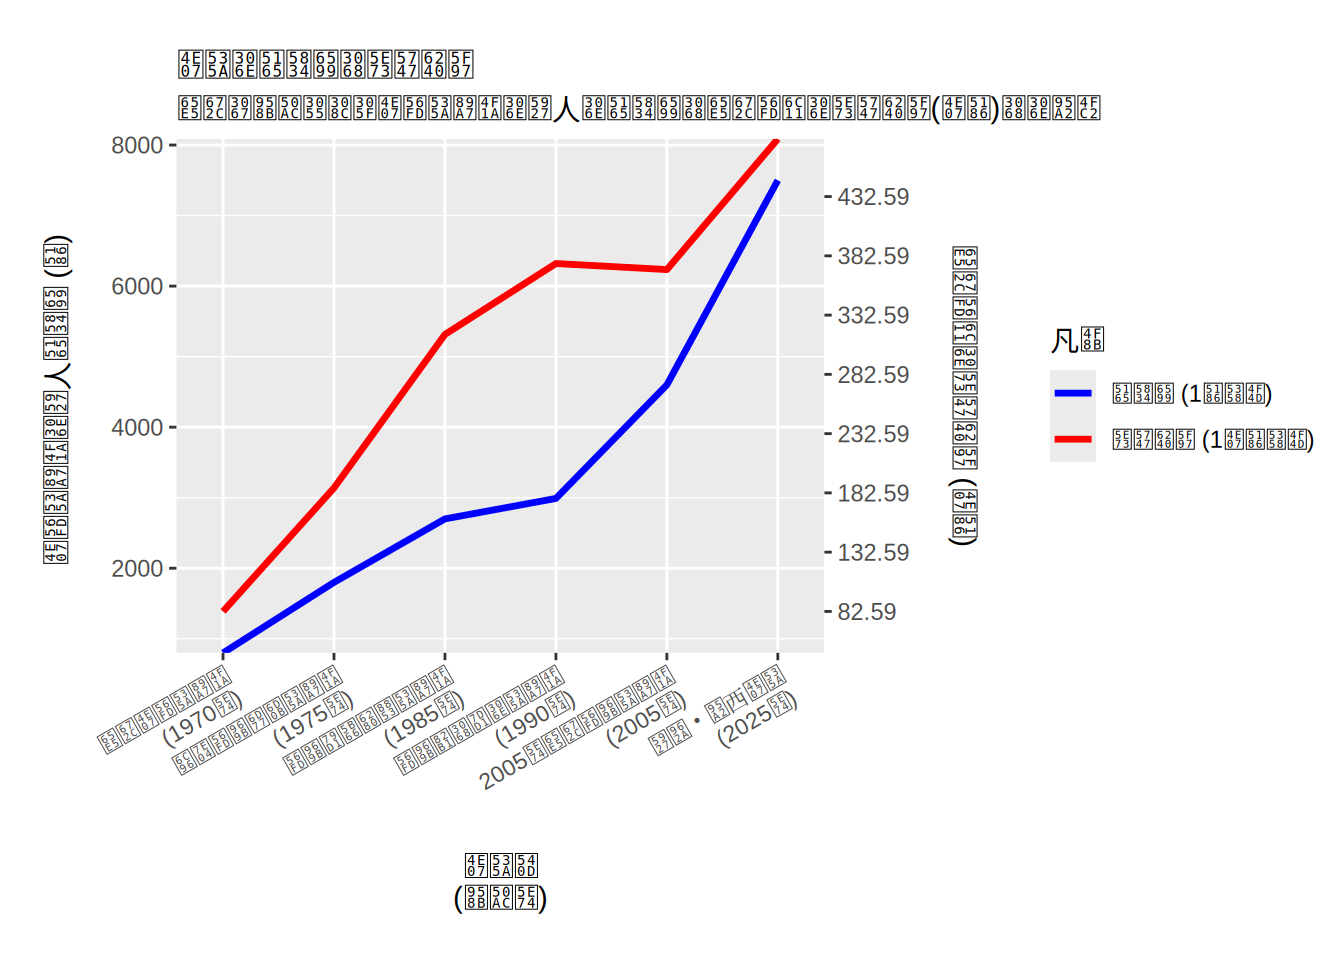
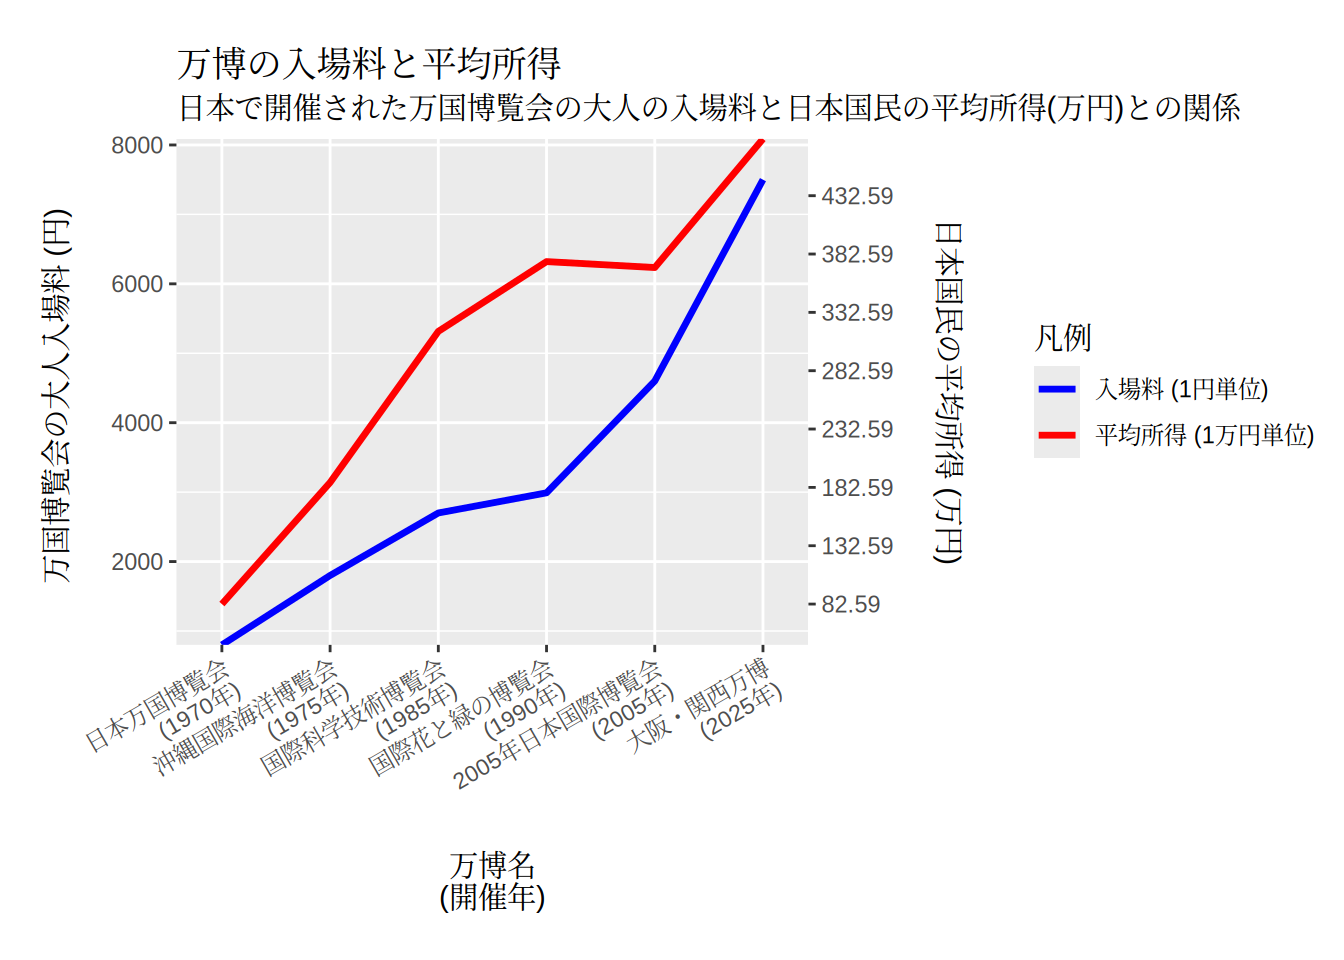
deploy: 92ed1d6dce108feeb68e03264bd46b342c282328

diff --git a/explanation.html b/explanation.html
@@ -259,8 +259,8 @@ pre > code.sourceCode > span > a:first-child::before { text-decoration: underlin
 <p>データの形式は、csv形式のデータである。 具体的なデータは、以下を参照のこと。</p>
 <div class="cell">
 <div class="cell-output-display">
-<div class="datatables html-widget html-fill-item" id="htmlwidget-1e44c5ab20dd886e5252" style="width:100%;height:auto;"></div>
-<script type="application/json" data-for="htmlwidget-1e44c5ab20dd886e5252">{"x":{"filter":"none","vertical":false,"data":[["1","2","3","4","5","6"],["日本万国博覧会","沖縄国際海洋博覧会","国際科学技術博覧会","国際花と緑の博覧会","2005年日本国際博覧会","大阪・関西万博"],[1970,1975,1985,1990,2005,2025],["昭和45年","昭和50年","昭和60年","平成2年","平成17年","令和7年"],[800,1800,2700,2990,4600,7500],[825900,1868000,3163000,3761000,3710000,4813000]],"container":"<table class=\"display\">\n  <thead>\n    <tr>\n      <th> <\/th>\n      <th>name<\/th>\n      <th>western_year<\/th>\n      <th>era_year<\/th>\n      <th>entrance_fee<\/th>\n      <th>give_mean<\/th>\n    <\/tr>\n  <\/thead>\n<\/table>","options":{"columnDefs":[{"className":"dt-right","targets":[2,4,5]},{"orderable":false,"targets":0},{"name":" ","targets":0},{"name":"name","targets":1},{"name":"western_year","targets":2},{"name":"era_year","targets":3},{"name":"entrance_fee","targets":4},{"name":"give_mean","targets":5}],"order":[],"autoWidth":false,"orderClasses":false}},"evals":[],"jsHooks":[]}</script>
+<div class="datatables html-widget html-fill-item" id="htmlwidget-b31ab89e94e7553f57ad" style="width:100%;height:auto;"></div>
+<script type="application/json" data-for="htmlwidget-b31ab89e94e7553f57ad">{"x":{"filter":"none","vertical":false,"data":[["1","2","3","4","5","6"],["日本万国博覧会","沖縄国際海洋博覧会","国際科学技術博覧会","国際花と緑の博覧会","2005年日本国際博覧会","大阪・関西万博"],[1970,1975,1985,1990,2005,2025],["昭和45年","昭和50年","昭和60年","平成2年","平成17年","令和7年"],[800,1800,2700,2990,4600,7500],[825900,1868000,3163000,3761000,3710000,4813000]],"container":"<table class=\"display\">\n  <thead>\n    <tr>\n      <th> <\/th>\n      <th>name<\/th>\n      <th>western_year<\/th>\n      <th>era_year<\/th>\n      <th>entrance_fee<\/th>\n      <th>give_mean<\/th>\n    <\/tr>\n  <\/thead>\n<\/table>","options":{"columnDefs":[{"className":"dt-right","targets":[2,4,5]},{"orderable":false,"targets":0},{"name":" ","targets":0},{"name":"name","targets":1},{"name":"western_year","targets":2},{"name":"era_year","targets":3},{"name":"entrance_fee","targets":4},{"name":"give_mean","targets":5}],"order":[],"autoWidth":false,"orderClasses":false}},"evals":[],"jsHooks":[]}</script>
 </div>
 </div>
 <p>データの過加工に関しては、R言語で出力した可視化表現をQuartoでサイトの一部として表示している。</p>
@@ -312,7 +312,7 @@ pre > code.sourceCode > span > a:first-child::before { text-decoration: underlin
       in
       {
         devShells.default = pkgs.mkShell {
-          packages = with pkgs; [ R quarto noto-fonts ] ++ rpkgs;
+          packages = with pkgs; [ R quarto noto-fonts-cjk-serif ] ++ rpkgs;
         };
       }
     );
